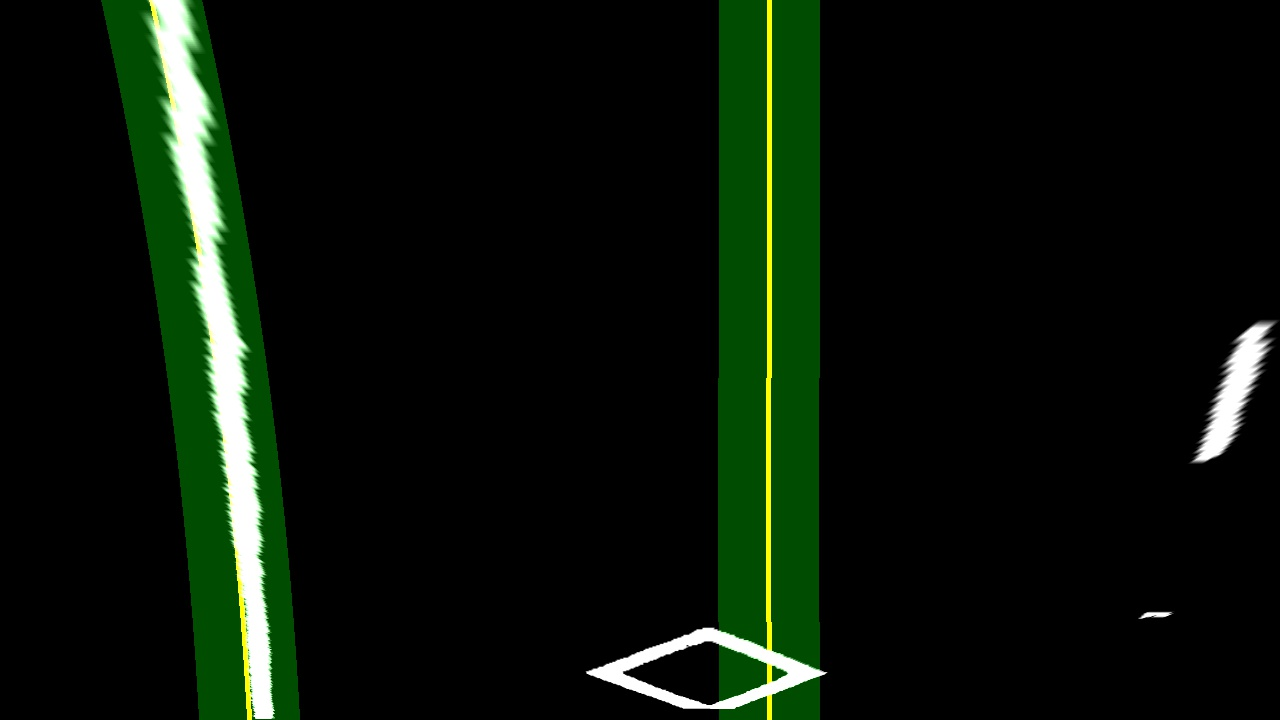
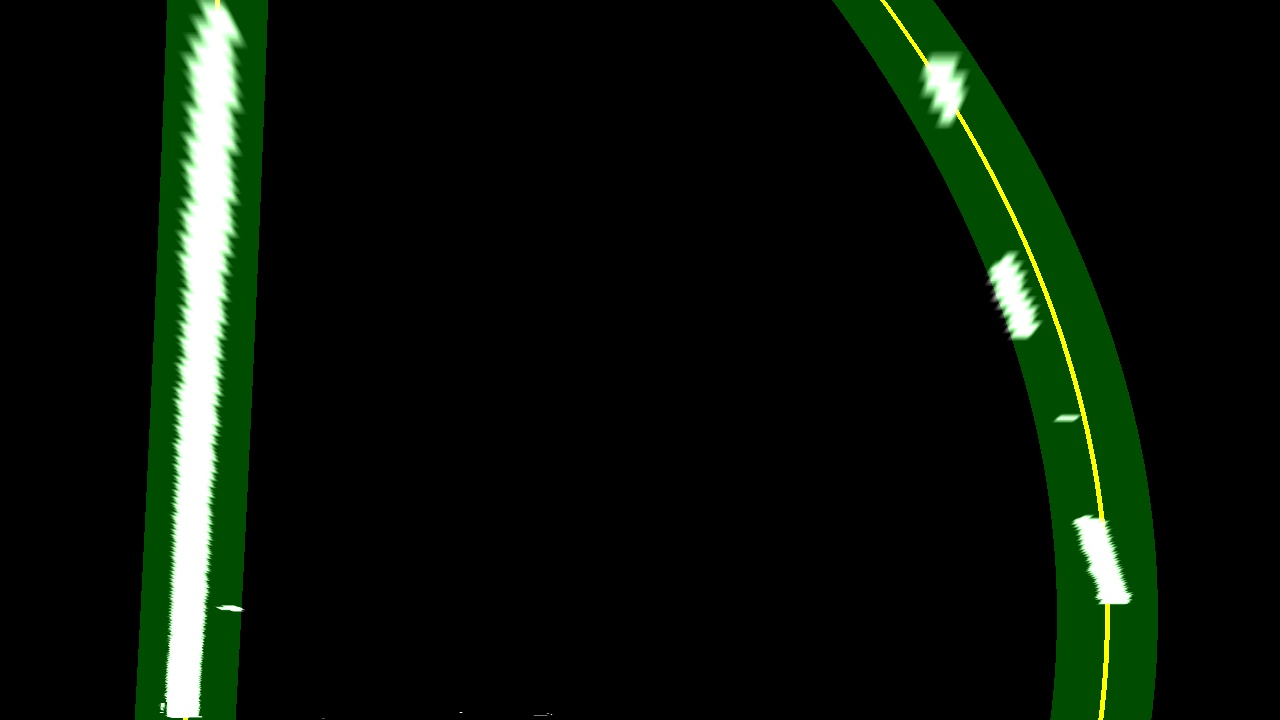
commit

Changed region(s): [[0.4375, 0.0, 1.0, 1.0], [0.0625, 0.0, 0.25, 1.0]]

diff --git a/writeup.md b/writeup.md
@@ -21,7 +21,7 @@ The goals / steps of this project are the following:
 [road_undist]: ./examples/test_1_undist.jpg "Road Undistorted"
 [road_bin]: ./examples/test_1_bin.jpg "Road Binary"
 [perspective1]: ./examples/test1_bin_trans1.jpg "Road Binary Lines"
-[perspective1]: ./examples/test1_bin_trans2.jpg "Road Binary Bird-View"
+[perspective2]: ./examples/test1_bin_trans2.jpg "Road Binary Bird-View"
 [road_rect]: ./examples/test1_bin_rect.jpg "Road Binary Centroids"
 [road_pol]: ./examples/test1_bin_pol.jpg "Road Binary Polynomial Lines"
 [road_result]: ./examples/test1_result.jpg "Road Result"
@@ -87,8 +87,8 @@ The code for the perspective transformation is contained in the class `CameraCal
 ```python
 src = np.float32([
 [0.14*shape[1], shape[0]-10],
-[shape[1]*0.46, shape[0]*0.68],
-[shape[1]*0.56, shape[0]*0.68],
+[shape[1]*0.46, shape[0]*0.62],
+[shape[1]*0.56, shape[0]*0.62],
 [shape[1]*0.88, shape[0]-10]])
 
 dest = np.float32([
@@ -102,10 +102,10 @@ This resulted in the following source and destination points:
 
 | Source        | Destination   | 
 |:-------------:|:-------------:| 
-| 179, 710      | 128, 719      | 
-| 588, 489      | 128, 0      	|
+| 281, 710      | 128, 719      | 
+| 563, 489      | 128, 0      	|
 | 716, 489     	| 1152, 0      	|
-| 1126, 710      | 1152, 719     |
+| 998, 710      | 1152, 719     |
 
 I verified that my perspective transform was working as expected by drawing the `src` and `dst` points onto a test image and its warped counterpart to verify that the lines appear parallel in the warped image.
 
